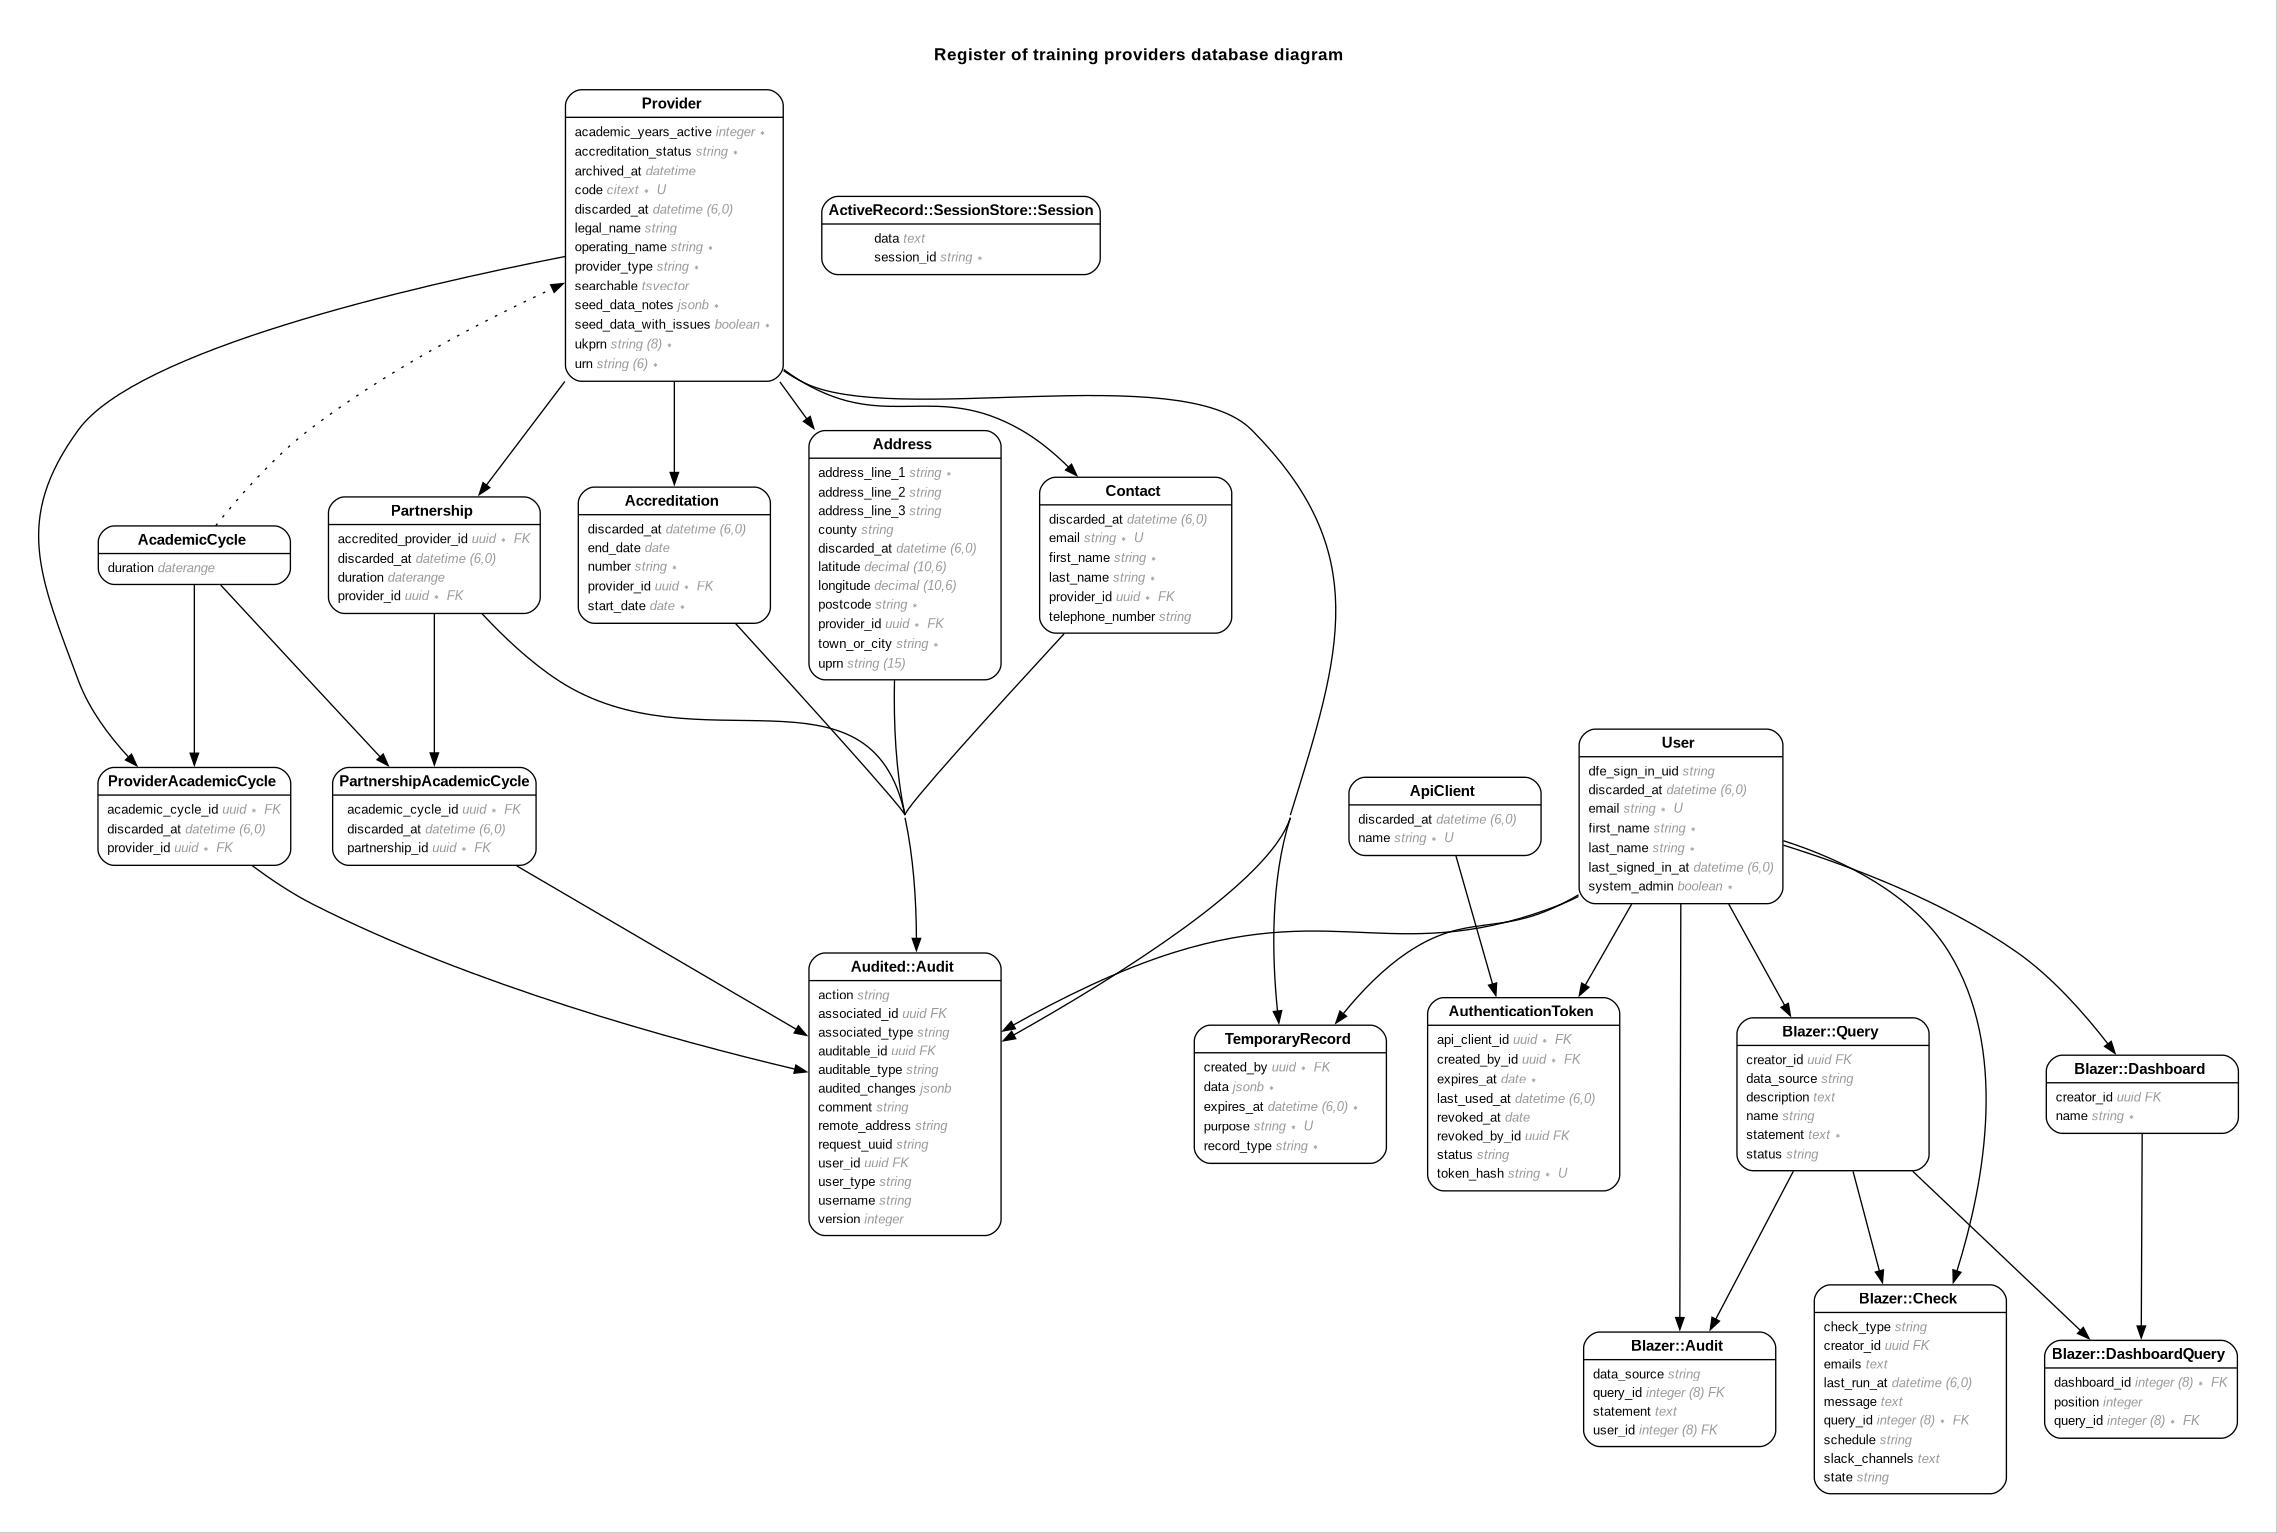
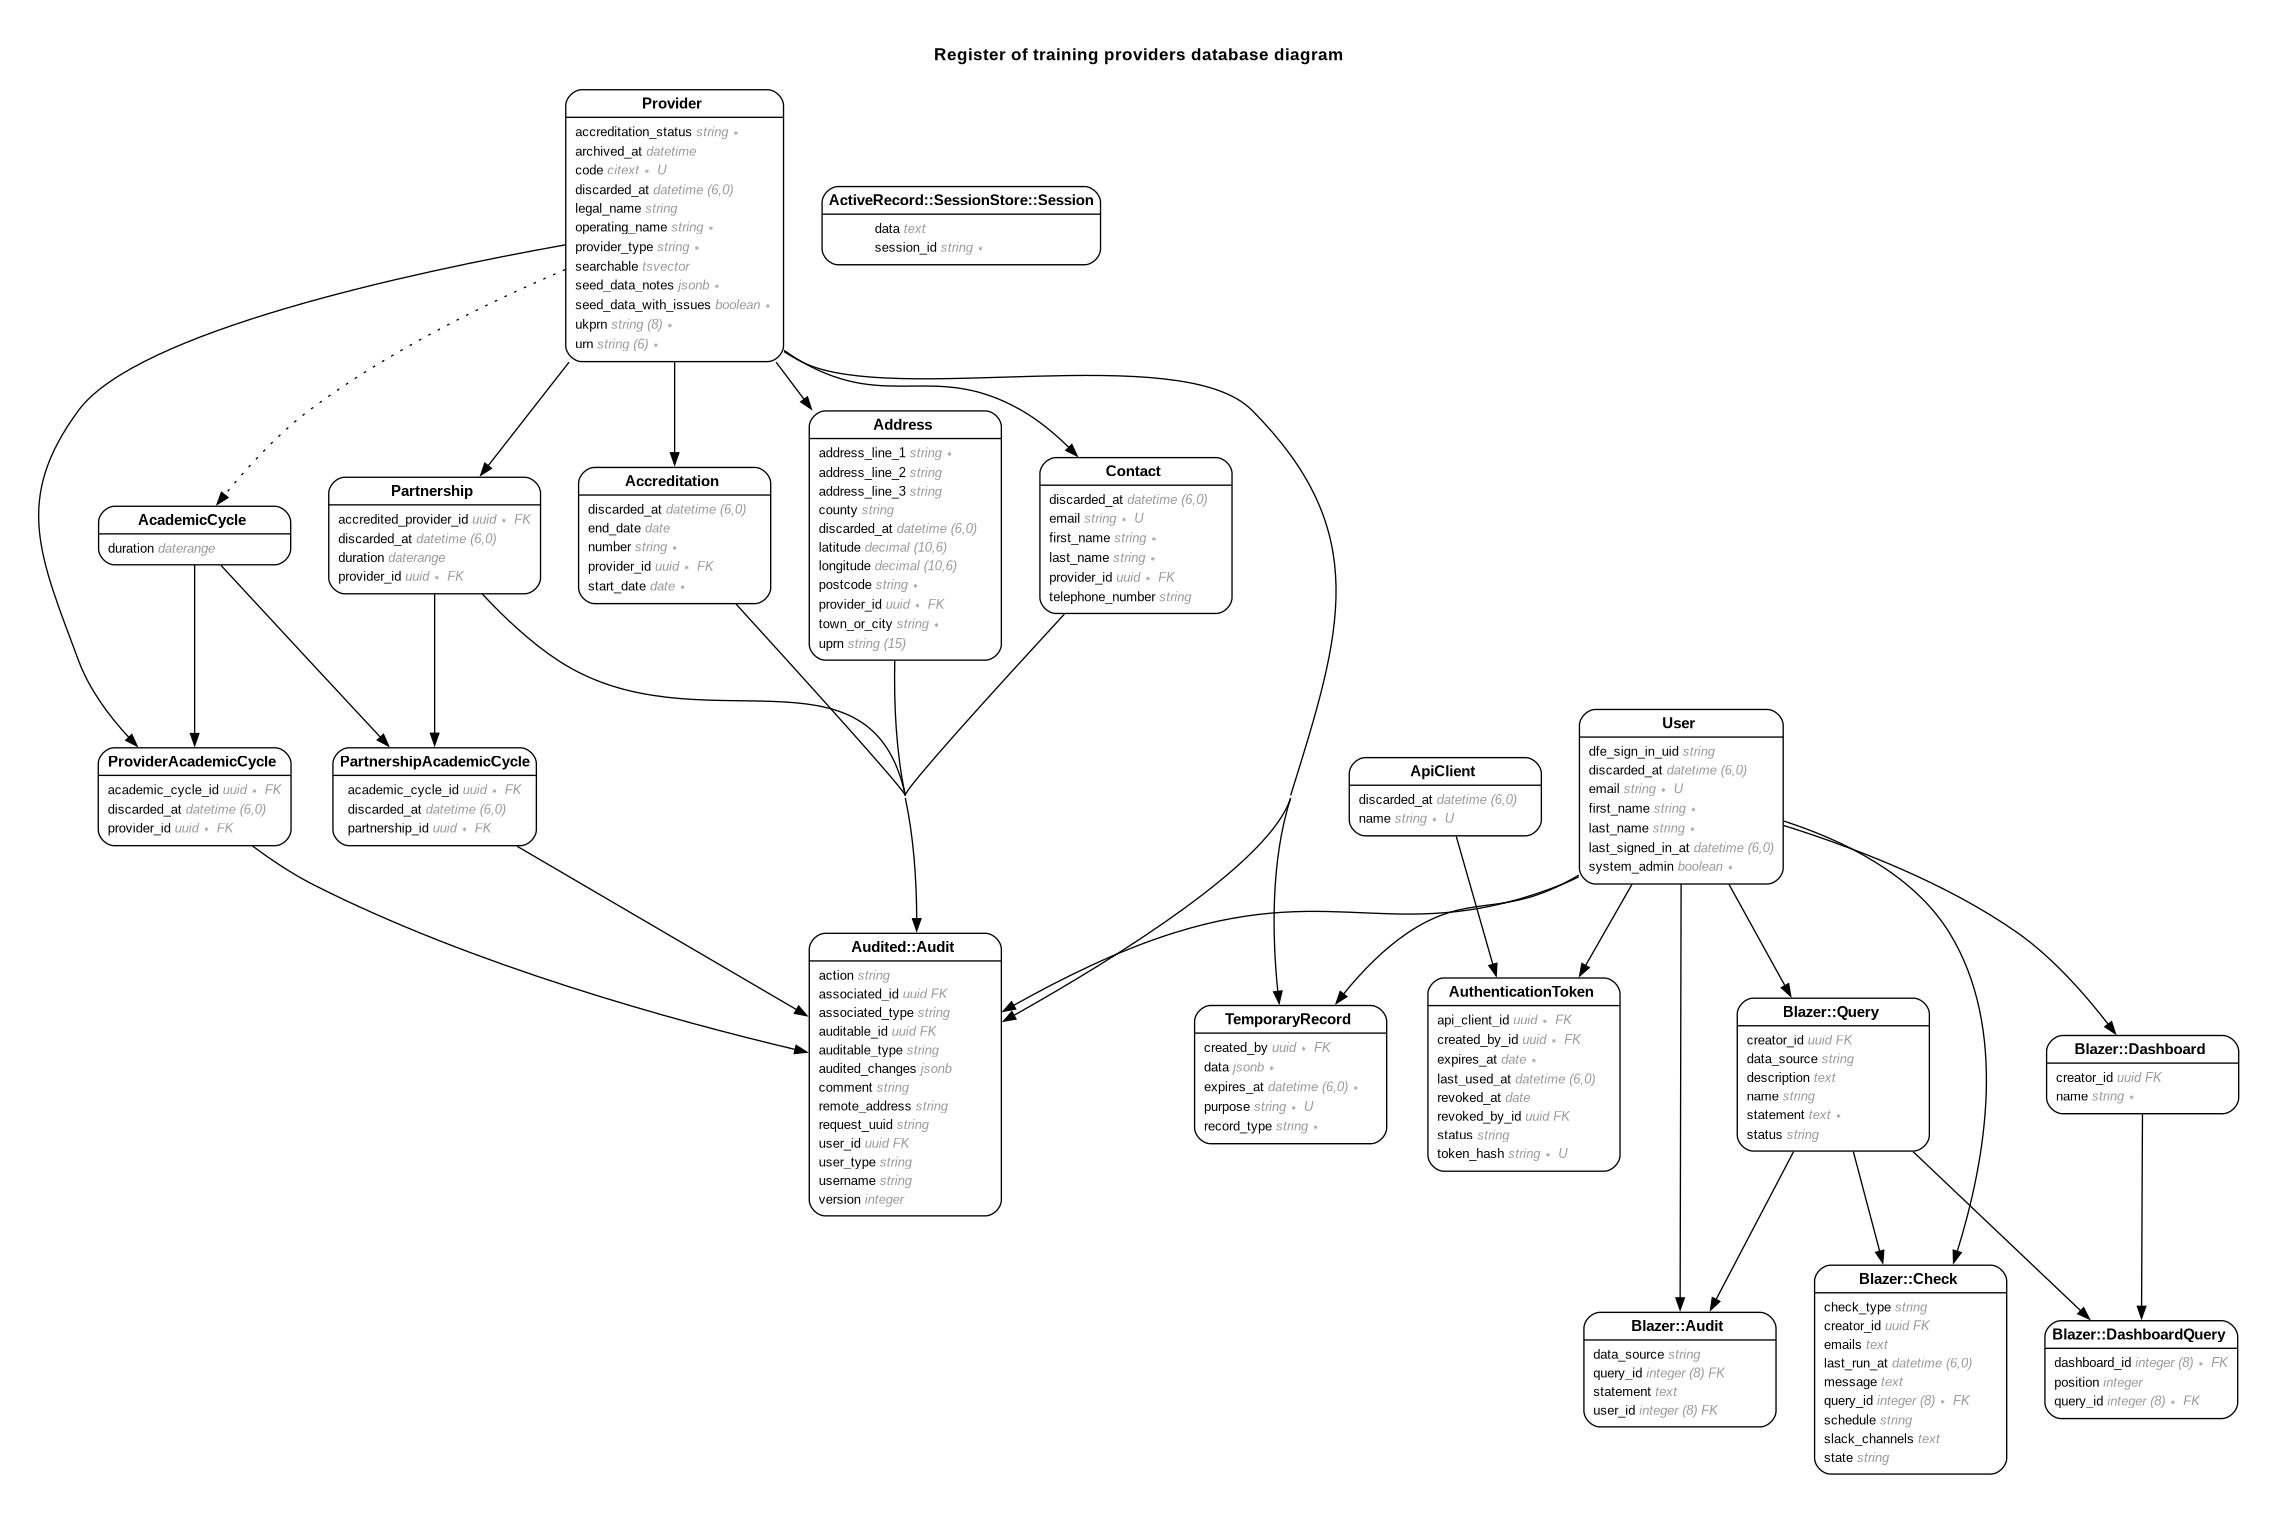
[0436] Removed academic years active from providers

diff --git a/app/models/provider.rb b/app/models/provider.rb
@@ -3,7 +3,6 @@
 # Table name: providers
 #
 #  id                    :uuid             not null, primary key
-#  academic_years_active :integer          default([]), not null, is an Array
 #  accreditation_status  :string           not null
 #  archived_at           :datetime
 #  code                  :citext           not null
@@ -21,16 +20,15 @@
 #
 # Indexes
 #
-#  index_providers_on_academic_years_active  (academic_years_active) USING gin
-#  index_providers_on_accreditation_status   (accreditation_status)
-#  index_providers_on_archived_at            (archived_at)
-#  index_providers_on_code                   (code) UNIQUE
-#  index_providers_on_discarded_at           (discarded_at)
-#  index_providers_on_legal_name             (legal_name)
-#  index_providers_on_provider_type          (provider_type)
-#  index_providers_on_searchable             (searchable) USING gin
-#  index_providers_on_ukprn                  (ukprn)
-#  index_providers_on_urn                    (urn)
+#  index_providers_on_accreditation_status  (accreditation_status)
+#  index_providers_on_archived_at           (archived_at)
+#  index_providers_on_code                  (code) UNIQUE
+#  index_providers_on_discarded_at          (discarded_at)
+#  index_providers_on_legal_name            (legal_name)
+#  index_providers_on_provider_type         (provider_type)
+#  index_providers_on_searchable            (searchable) USING gin
+#  index_providers_on_ukprn                 (ukprn)
+#  index_providers_on_urn                   (urn)
 #
 class Provider < ApplicationRecord
   self.implicit_order_column = :created_at
@@ -176,6 +174,6 @@ private
   end
 
   def set_default_academic_years_active
-    self.academic_years_active ||= [AcademicYearHelper.current_academic_year]
+    self.academic_cycles ||= [AcademicCycle.for_year(AcademicYearHelper.current_academic_year)]
   end
 end

diff --git a/db/schema.rb b/db/schema.rb
@@ -10,7 +10,7 @@
 #
 # It's strongly recommended that you check this file into your version control system.
 
-ActiveRecord::Schema[8.1].define(version: 2026_03_13_155246) do
+ActiveRecord::Schema[8.1].define(version: 2026_03_16_100637) do
   # These are extensions that must be enabled in order to support this database
   enable_extension "citext"
   enable_extension "pgcrypto"
@@ -207,7 +207,6 @@ ActiveRecord::Schema[8.1].define(version: 2026_03_13_155246) do
   end
 
   create_table "providers", id: :uuid, default: -> { "gen_random_uuid()" }, force: :cascade do |t|
-    t.integer "academic_years_active", default: [], null: false, array: true
     t.string "accreditation_status", null: false
     t.datetime "archived_at", precision: nil
     t.citext "code", null: false
@@ -222,7 +221,6 @@ ActiveRecord::Schema[8.1].define(version: 2026_03_13_155246) do
     t.string "ukprn", limit: 8, null: false
     t.datetime "updated_at", null: false
     t.string "urn", limit: 6
-    t.index ["academic_years_active"], name: "index_providers_on_academic_years_active", using: :gin
     t.index ["accreditation_status"], name: "index_providers_on_accreditation_status"
     t.index ["archived_at"], name: "index_providers_on_archived_at"
     t.index ["code"], name: "index_providers_on_code", unique: true

diff --git a/db/migrate/20260316100637_remove_academic_years_active_from_providers.rb b/db/migrate/20260316100637_remove_academic_years_active_from_providers.rb
@@ -1,0 +1,9 @@
+class RemoveAcademicYearsActiveFromProviders < ActiveRecord::Migration[8.1]
+  def up
+    remove_column :providers, :academic_years_active
+  end
+
+  def down
+    # NOTE: not needed
+  end
+end
